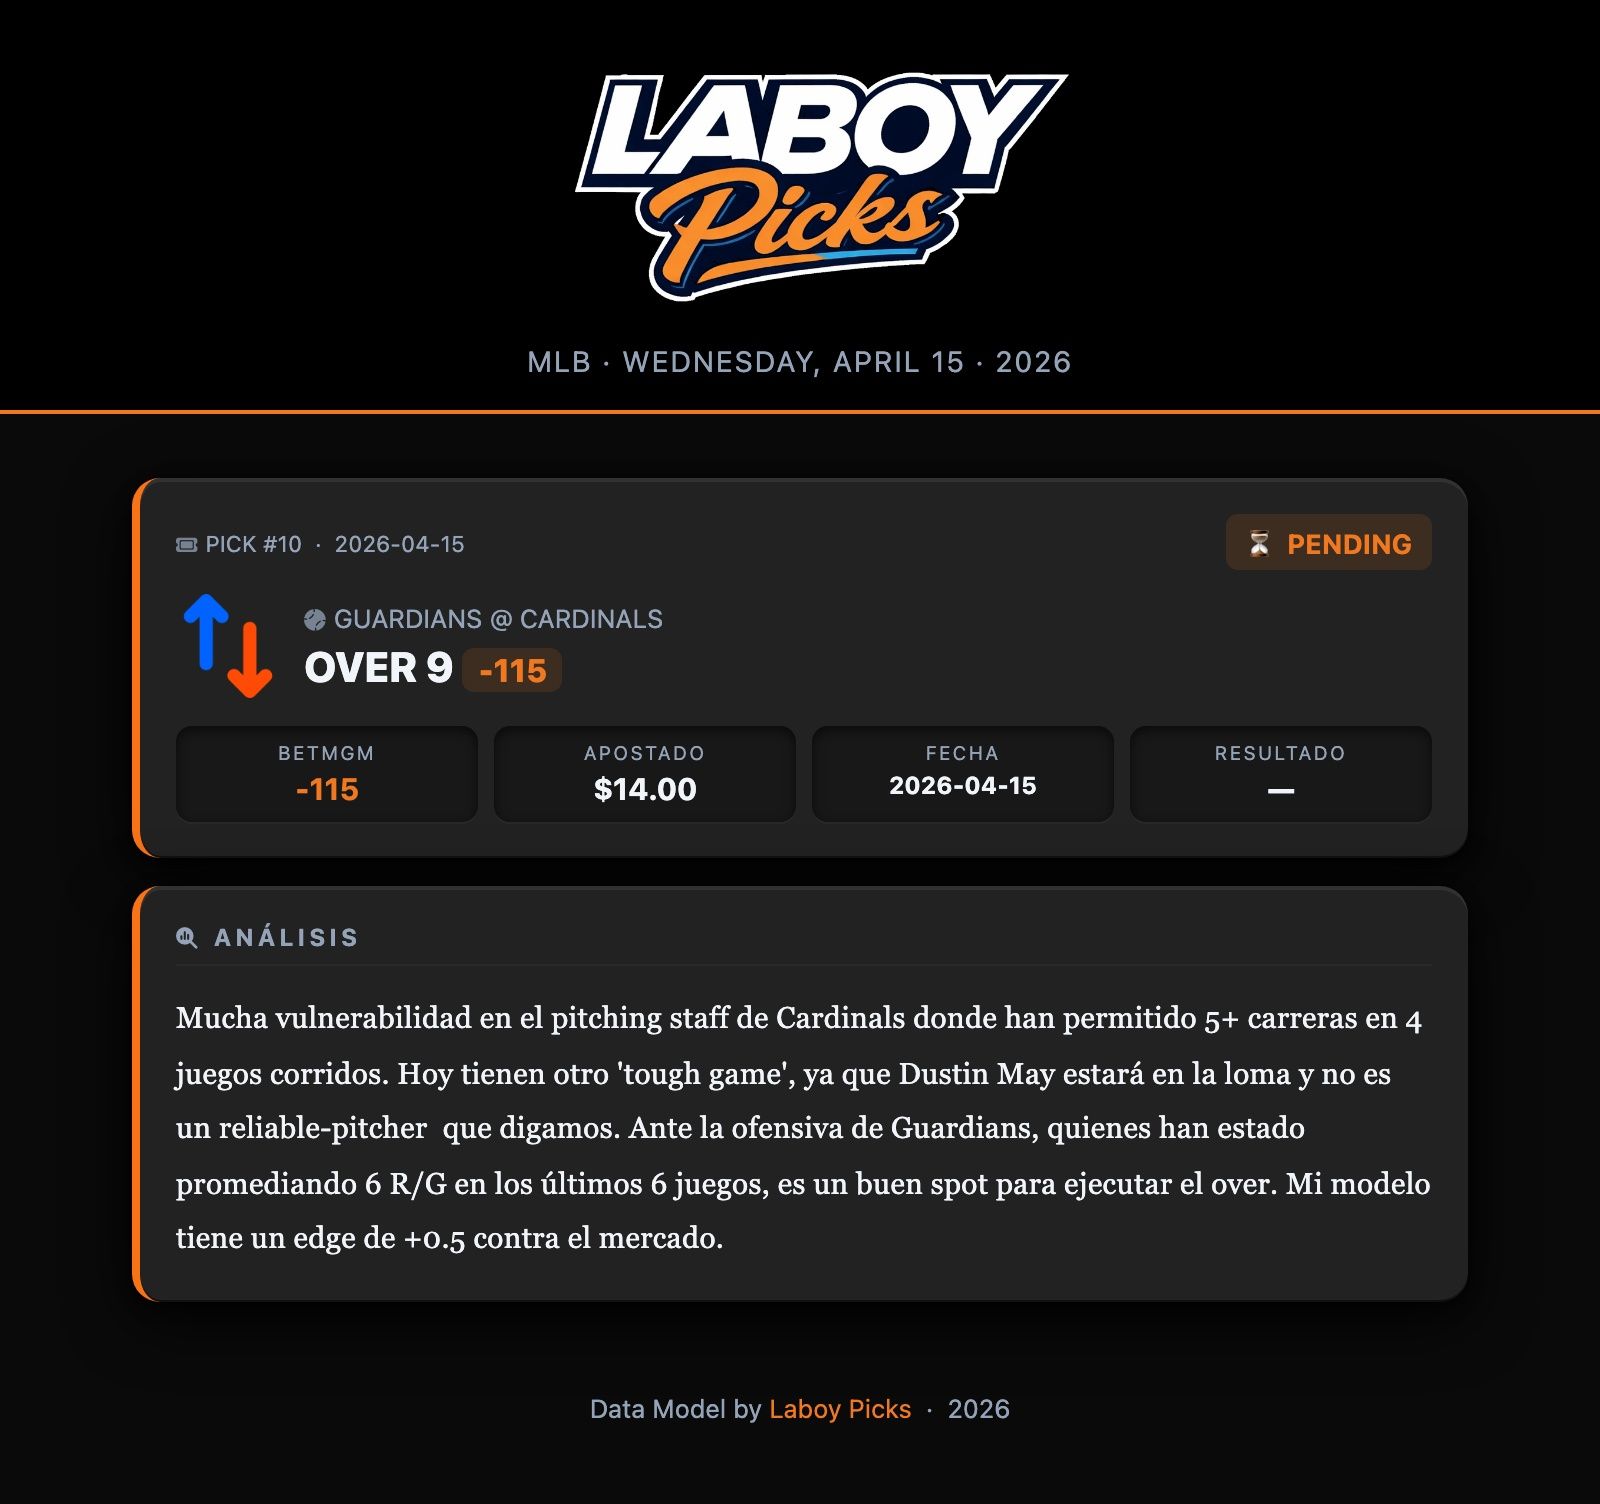
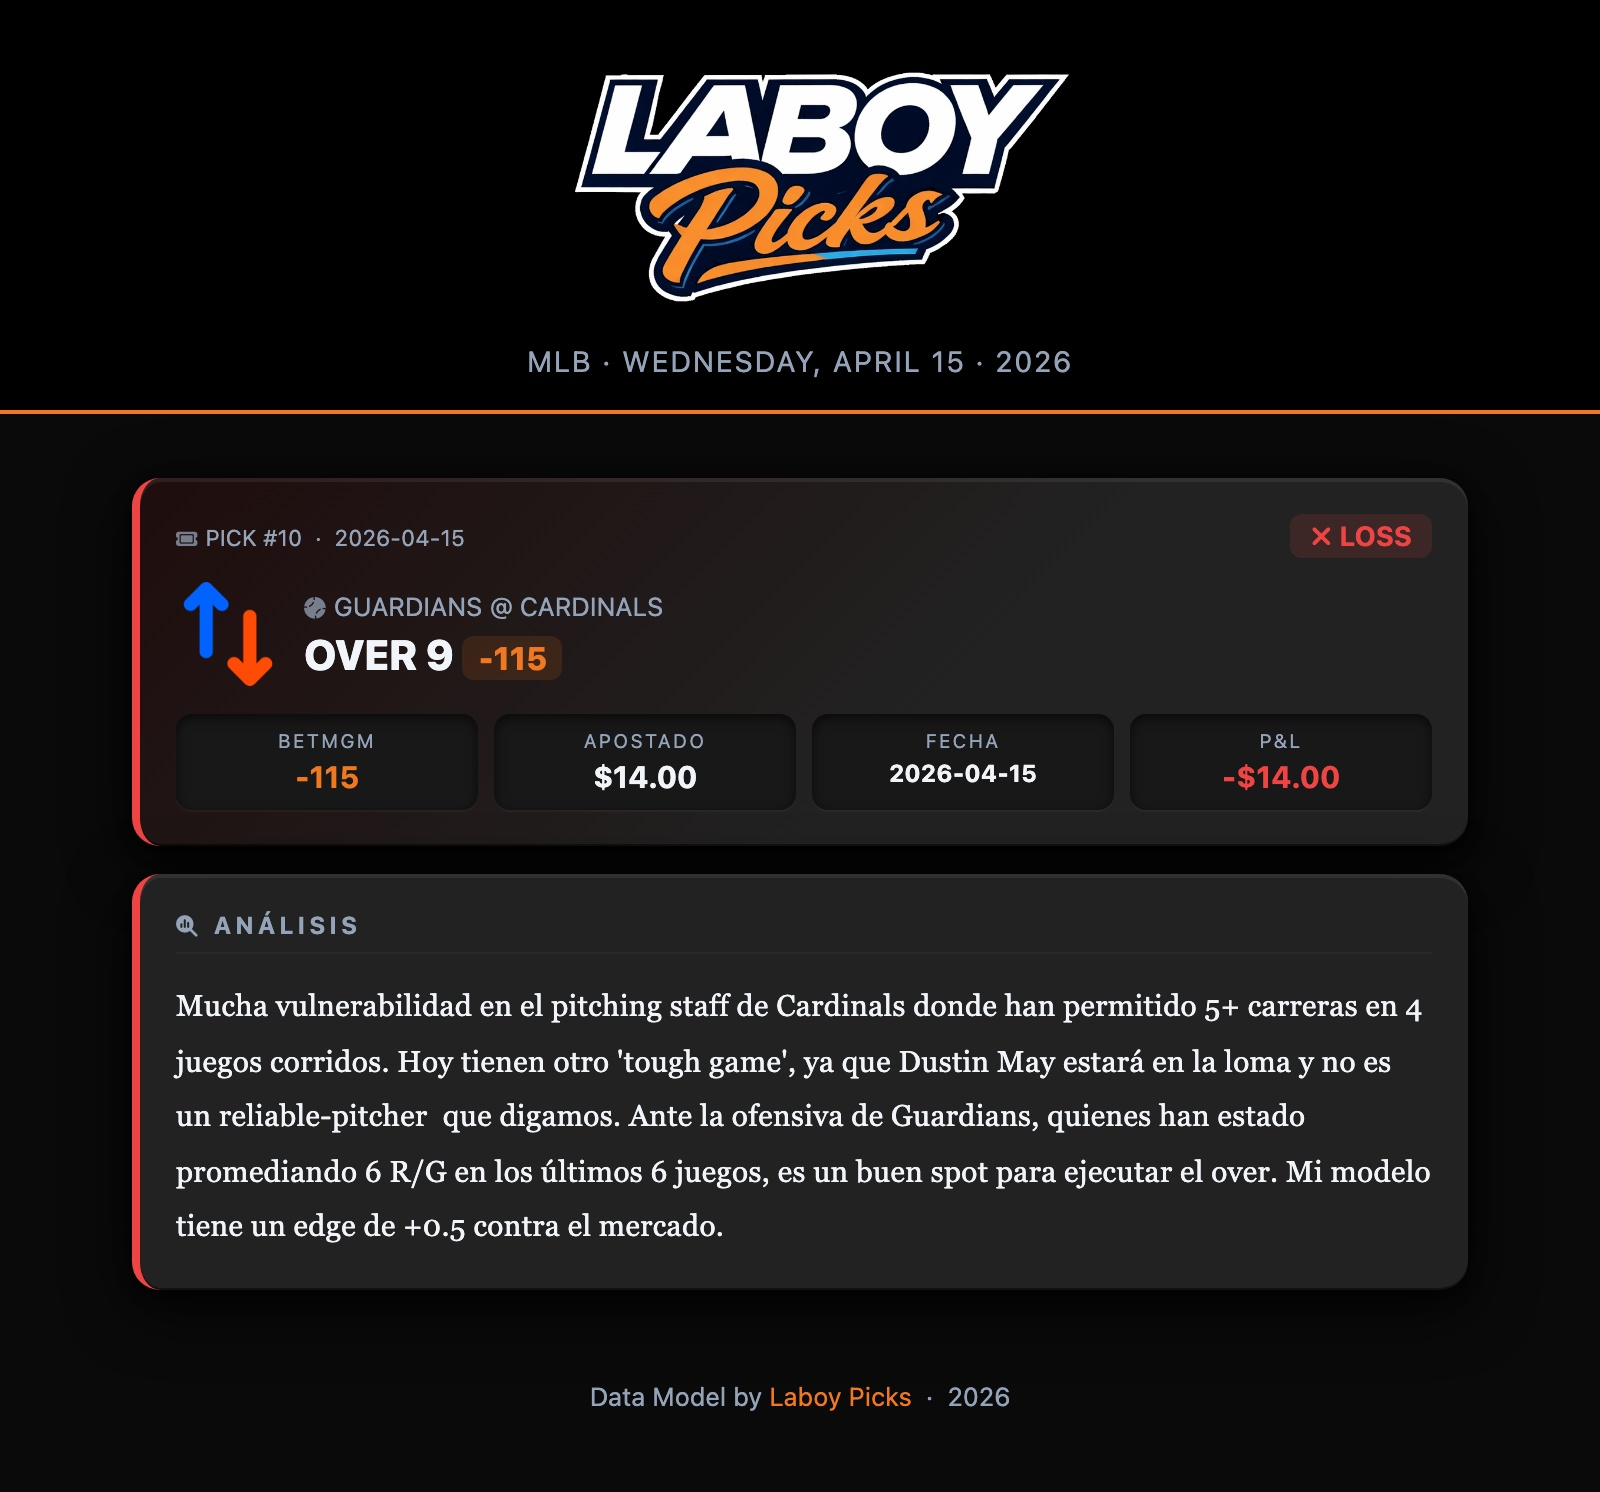
📊 MLB 2026-04-16 — Laboy Record Card 2026-04-16-23ef385.html

diff --git a/Laboy Record Card 2026-04-16-23ef385.html b/Laboy Record Card 2026-04-16-23ef385.html
@@ -63,10 +63,10 @@
 
     <div class="section-title">MIS PICKS</div>
     
-        <div class="pick-card" style="border-left:4px solid #f07820;">
+        <div class="pick-card" style="border-left:4px solid #ef4444;background:linear-gradient(135deg,#1f0d0d 0%,#222222 60%)">
           <div style="display:flex;justify-content:space-between;align-items:center;margin-bottom:10px">
             <div style="font-size:0.75rem;color:var(--muted)">GIANTS @ REDS</div>
-            <span style="background:#f0782022;color:#f07820;border-radius:6px;padding:3px 10px;font-size:0.85rem;font-weight:700">⏳ PENDING</span>
+            <span style="background:#ef444422;color:#ef4444;border-radius:6px;padding:3px 10px;font-size:0.85rem;font-weight:700">❌ LOSS</span>
           </div>
           <div class="teams-row" style="margin-bottom:8px">
[1 lines of base64/hex data omitted]
@@ -76,16 +76,16 @@
                 <span style="background:#f0782022;color:#f07820;border-radius:6px;padding:2px 8px;font-size:0.9rem;margin-left:6px">-115</span>
               </div>
               <div style="font-size:0.8rem;color:var(--muted);margin-top:5px">
-                BetMGM · $14.00 · Balance: <span style="color:#f07820;font-weight:700">+$0.00</span>
+                BetMGM · $14.00 · Balance: <span style="color:#ef4444;font-weight:700">-$14.00</span>
               </div>
             </div>
           </div>
         </div>
         
-        <div class="pick-card" style="border-left:4px solid #f07820;">
+        <div class="pick-card" style="border-left:4px solid #ef4444;background:linear-gradient(135deg,#1f0d0d 0%,#222222 60%)">
           <div style="display:flex;justify-content:space-between;align-items:center;margin-bottom:10px">
             <div style="font-size:0.75rem;color:var(--muted)">BLUE JAYS @ BREWERS</div>
-            <span style="background:#f0782022;color:#f07820;border-radius:6px;padding:3px 10px;font-size:0.85rem;font-weight:700">⏳ PENDING</span>
+            <span style="background:#ef444422;color:#ef4444;border-radius:6px;padding:3px 10px;font-size:0.85rem;font-weight:700">❌ LOSS</span>
           </div>
           <div class="teams-row" style="margin-bottom:8px">
[1 lines of base64/hex data omitted]
@@ -95,16 +95,16 @@
                 <span style="background:#f0782022;color:#f07820;border-radius:6px;padding:2px 8px;font-size:0.9rem;margin-left:6px">-110</span>
               </div>
               <div style="font-size:0.8rem;color:var(--muted);margin-top:5px">
-                BetMGM · $14.00 · Balance: <span style="color:#f07820;font-weight:700">+$0.00</span>
+                BetMGM · $14.00 · Balance: <span style="color:#ef4444;font-weight:700">-$28.00</span>
               </div>
             </div>
           </div>
         </div>
         
-        <div class="pick-card" style="border-left:4px solid #f07820;">
+        <div class="pick-card" style="border-left:4px solid #22c55e;background:linear-gradient(135deg,#0d1f14 0%,#222222 60%)">
           <div style="display:flex;justify-content:space-between;align-items:center;margin-bottom:10px">
             <div style="font-size:0.75rem;color:var(--muted)">RAYS @ WHITE SOX</div>
-            <span style="background:#f0782022;color:#f07820;border-radius:6px;padding:3px 10px;font-size:0.85rem;font-weight:700">⏳ PENDING</span>
+            <span style="background:#22c55e22;color:#22c55e;border-radius:6px;padding:3px 10px;font-size:0.85rem;font-weight:700">✅ WIN</span>
           </div>
           <div class="teams-row" style="margin-bottom:8px">
             <img src="https://a.espncdn.com/combiner/i?img=/i/teamlogos/mlb/500/tb.png&w=80&h=80&scale=crop&cquality=40" alt="RAYS" width="44" height="44" style="object-fit:contain;border-radius:4px" onerror="this.style.display='none'">
@@ -114,16 +114,16 @@
                 <span style="background:#f0782022;color:#f07820;border-radius:6px;padding:2px 8px;font-size:0.9rem;margin-left:6px">-125</span>
               </div>
               <div style="font-size:0.8rem;color:var(--muted);margin-top:5px">
-                BetMGM · $12.00 · Balance: <span style="color:#f07820;font-weight:700">+$0.00</span>
+                BetMGM · $12.00 · Balance: <span style="color:#22c55e;font-weight:700">-$18.40</span>
               </div>
             </div>
           </div>
         </div>
         
-        <div class="pick-card" style="border-left:4px solid #f07820;">
+        <div class="pick-card" style="border-left:4px solid #ef4444;background:linear-gradient(135deg,#1f0d0d 0%,#222222 60%)">
           <div style="display:flex;justify-content:space-between;align-items:center;margin-bottom:10px">
             <div style="font-size:0.75rem;color:var(--muted)">MARINERS @ PADRES</div>
-            <span style="background:#f0782022;color:#f07820;border-radius:6px;padding:3px 10px;font-size:0.85rem;font-weight:700">⏳ PENDING</span>
+            <span style="background:#ef444422;color:#ef4444;border-radius:6px;padding:3px 10px;font-size:0.85rem;font-weight:700">❌ LOSS</span>
           </div>
           <div class="teams-row" style="margin-bottom:8px">
[1 lines of base64/hex data omitted]
@@ -133,7 +133,7 @@
                 <span style="background:#f0782022;color:#f07820;border-radius:6px;padding:2px 8px;font-size:0.9rem;margin-left:6px">-110</span>
               </div>
               <div style="font-size:0.8rem;color:var(--muted);margin-top:5px">
-                BetMGM · $18.00 · Balance: <span style="color:#f07820;font-weight:700">+$0.00</span>
+                BetMGM · $18.00 · Balance: <span style="color:#ef4444;font-weight:700">-$36.40</span>
               </div>
             </div>
           </div>
@@ -148,22 +148,22 @@
       <div style="display:grid;grid-template-columns:1fr 1fr;gap:10px">
         <div style="background:#1a1a1a;border-radius:12px;padding:16px">
           <div style="font-size:0.65rem;text-transform:uppercase;letter-spacing:1px;color:var(--muted);margin-bottom:6px">RECORD</div>
-          <div style="font-size:1.6rem;font-weight:900;color:#22c55e">0-0-0</div>
+          <div style="font-size:1.6rem;font-weight:900;color:#ef4444">1-3-0</div>
           <div style="font-size:0.7rem;color:var(--muted);margin-top:3px">W · L · P</div>
         </div>
         <div style="background:#1a1a1a;border-radius:12px;padding:16px">
           <div style="font-size:0.65rem;text-transform:uppercase;letter-spacing:1px;color:var(--muted);margin-bottom:6px">WIN RATE</div>
-          <div style="font-size:1.6rem;font-weight:900;color:#22c55e">—</div>
-          <div style="font-size:0.7rem;color:var(--muted);margin-top:3px">0 de 0 calificados</div>
+          <div style="font-size:1.6rem;font-weight:900;color:#ef4444">25%</div>
+          <div style="font-size:0.7rem;color:var(--muted);margin-top:3px">1 de 4 calificados</div>
         </div>
         <div style="background:#1a1a1a;border-radius:12px;padding:16px">
           <div style="font-size:0.65rem;text-transform:uppercase;letter-spacing:1px;color:var(--muted);margin-bottom:6px">P&amp;L</div>
-          <div style="font-size:1.6rem;font-weight:900;color:#22c55e">+$0.00</div>
-          <div style="font-size:0.7rem;color:var(--muted);margin-top:3px">ROI: <span style="color:#22c55e">+0.0%</span></div>
+          <div style="font-size:1.6rem;font-weight:900;color:#ef4444">-$36.40</div>
+          <div style="font-size:0.7rem;color:var(--muted);margin-top:3px">ROI: <span style="color:#ef4444">-62.8%</span></div>
         </div>
         <div style="background:#1a1a1a;border-radius:12px;padding:16px">
           <div style="font-size:0.65rem;text-transform:uppercase;letter-spacing:1px;color:var(--muted);margin-bottom:6px">BALANCE</div>
-          <div style="font-size:1.6rem;font-weight:900;color:#22c55e">+$0.00</div>
+          <div style="font-size:1.6rem;font-weight:900;color:#ef4444">-$36.40</div>
           <div style="font-size:0.7rem;color:var(--muted);margin-top:3px">acumulado</div>
         </div>
       </div>

diff --git a/dashboard-Lb9x3Kw.html b/dashboard-Lb9x3Kw.html
@@ -43,6 +43,6 @@
 <li><a href="https://laboywebsite-lgtm.github.io/mlb-picks/Laboy%20Record%20Card%202026-04-12.html" target="_blank">2026-04-12</a></li>
 <li><a href="https://laboywebsite-lgtm.github.io/mlb-picks/Laboy%20Model%20Card%202026-04-12.html" target="_blank">2026-04-12</a></li>
 </ul>
-  <p class="ts">Actualizado: 2026-04-17 12:59</p>
+  <p class="ts">Actualizado: 2026-04-17 13:05</p>
 </body>
 </html>
